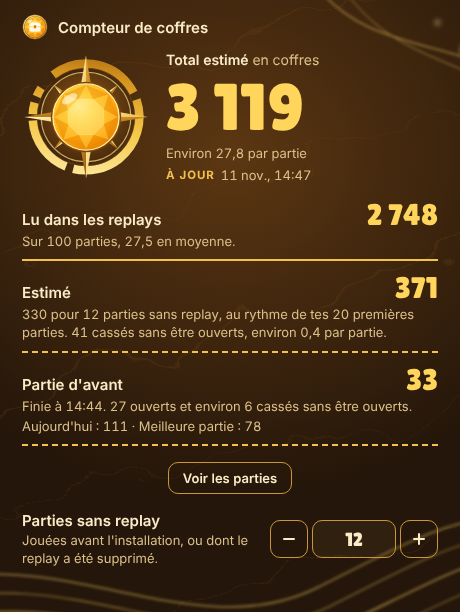
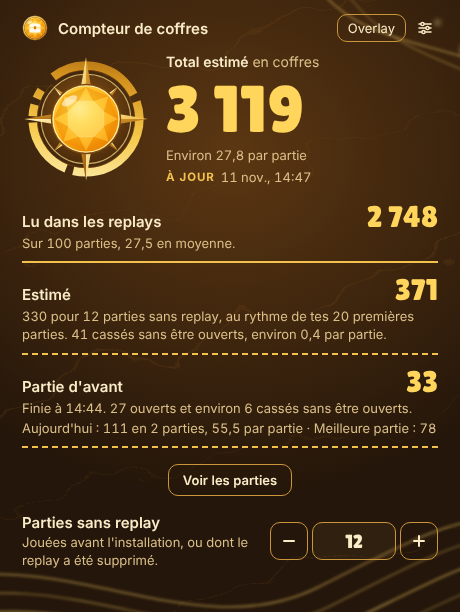
feat(content): show the chest counter 2.4.0 window and settings

diff --git a/src/i18n/fr.ts b/src/i18n/fr.ts
@@ -157,7 +157,7 @@ export const fr = {
         'Lance l’installateur. Il s’installe pour ton compte Windows, sans droits d’administrateur, avec un raccourci dans le menu Démarrer et sur le bureau.',
         'Si Windows t’avertit au lancement, suis les étapes de l’encadré « Si Windows t’avertit ».',
         'Dans Fortnite, active l’enregistrement des replays : réglages, section Replays.',
-        'Laisse Chest Counter ouvert ou réduit pendant que tu joues. Chaque partie est comptée une fois finie : le jeu chiffre le replay d’une partie en cours.',
+        'Laisse Chest Counter ouvert pendant que tu joues : si tu fermes la fenêtre, il reste près de l’horloge. Chaque partie est comptée une fois finie : le jeu chiffre le replay d’une partie en cours.',
       ],
       note: 'Tu as joué avant d’installer l’app ? Indique combien de parties dans « Parties sans replay ». Les nouvelles versions s’installent toutes seules.',
     },

diff --git a/src/i18n/en.ts b/src/i18n/en.ts
@@ -158,7 +158,7 @@ export const en: typeof fr = {
         'Run the installer. It installs for your Windows account, without administrator rights, with a shortcut in the Start menu and on the desktop.',
         'If Windows warns you when it starts, follow the steps in the “If Windows warns you” box.',
         'In Fortnite, turn on replay recording: settings, Replays section.',
-        'Leave Chest Counter open or minimized while you play. Each match is counted once it ends: the game encrypts the replay of a match in progress.',
+        'Leave Chest Counter running while you play: if you close the window, it stays by the clock. Each match is counted once it ends: the game encrypts the replay of a match in progress.',
       ],
       note: 'Played before installing the app? Enter how many matches in “Matches without a replay”. New versions install themselves.',
     },

diff --git a/src/content/software/chest-counter.md b/src/content/software/chest-counter.md
@@ -7,7 +7,7 @@ repo: Palawizard/chest-counter
 color: amber
 category: UtilitiesApplication
 languages: ['fr', 'en']
-shareCard: 2
+shareCard: 3
 icon: ../../assets/software/chest-counter/icon.svg
 screenshots:
   - src: ../../assets/software/chest-counter/window-light.png
@@ -26,26 +26,36 @@ requirements:
 
 ## Ce qui est compté
 
-Chaque coffre que tu ouvres toi-même : normal, rare, enterré, relique et avis de recherche, ainsi que les types de coffres ajoutés par les mises à jour du jeu. Un coffre qui se remplit à nouveau et que tu rouvres compte une deuxième fois ; un coffre que tu revois sans le rouvrir ne compte pas. Les caisses de munitions et les glacières ne comptent pas.
+Chaque coffre que tu ouvres toi-même : normal, rare, enterré, relique et avis de recherche, ainsi que les types de coffres ajoutés par les mises à jour du jeu. Un coffre qui se remplit à nouveau et que tu rouvres compte une deuxième fois ; un coffre que tu revois sans le rouvrir ne compte pas. Les caisses de munitions et les glacières ne comptent pas.
 
 ## Après chaque partie
 
-Sous le grand nombre, tu vois ta moyenne par partie : le total estimé divisé par toutes tes parties. « Partie d’avant » donne les coffres de ta dernière partie, ouverts plus cassés estimés, l’heure à laquelle elle a fini, tes coffres du jour et ta meilleure partie. « Voir les parties » liste chaque partie comptée avec le même total et ses coffres ouverts par type. Une notification Windows te dit aussi combien de coffres chaque partie a ajoutés ; tu peux la couper en bas de la liste.
+Sous le grand nombre, tu vois ta moyenne par partie : le total estimé divisé par toutes tes parties. « Partie d’avant » donne les coffres de ta dernière partie, ouverts plus cassés estimés, l’heure à laquelle elle a fini, tes coffres du jour avec ta moyenne du jour, et ta meilleure partie. « Voir les parties » liste chaque partie comptée avec le même total et ses coffres ouverts par type. Une notification Windows te dit aussi combien de coffres chaque partie a ajoutés ; tu peux la couper dans les réglages.
+
+## Pendant le jeu et en stream
+
+Le bouton en haut à droite de la fenêtre ouvre les réglages :
+
+- **Overlay pendant Fortnite** : le total et la partie d’avant par-dessus le jeu, en plein écran comme en fenêtré. Tes clics passent au travers. Ctrl+Maj+O le cache ou l’affiche, Ctrl+Maj+L te laisse le déplacer puis le fixe. Les boutons « Overlay » et « Déplacer » en haut de la fenêtre font la même chose.
+- **Page pour OBS** : une adresse comme `http://127.0.0.1:28470/`, à ajouter comme source Navigateur dans OBS. La page est transparente et se met à jour toutes les quelques secondes.
+- **S’ouvrir avec Fortnite** : un petit processus démarre avec Windows, attend sans rien faire et ouvre Chest Counter près de l’horloge quand Fortnite se lance.
+
+Fermer la fenêtre laisse Chest Counter tourner près de l’horloge, pour que l’overlay, la page OBS et les notifications continuent. Pour le quitter, fais un clic droit sur son icône près de l’horloge, puis « Quitter ».
 
 ## Les limites
 
-- Fortnite garde environ 100 replays. Une partie dont le replay est supprimé avant que l’app le lise ne peut être qu’estimée : ouvre Chest Counter au moins une fois toutes les 100 parties.
-- Les replays ne disent pas qui a cassé un coffre. Un coffre détruit avec son butin compte pour toi si tu étais le joueur le plus proche, à moins de 10 m. En véhicule, ta position n’est pas suivie : ces coffres comptent pour 0,7. Cette part reste toujours dans l’estimation.
+- Fortnite garde environ 100 replays. Une partie dont le replay est supprimé avant que l’app le lise ne peut être qu’estimée : ouvre Chest Counter au moins une fois toutes les 100 parties.
+- Les replays ne disent pas qui a cassé un coffre. Un coffre détruit avec son butin compte pour toi si tu étais le joueur le plus proche, à moins de 10 m. En véhicule, ta position n’est pas suivie : ces coffres comptent pour 0,7. Cette part reste toujours dans l’estimation.
 - Les coffres du détecteur de reliques ne sont pas comptés.
-- Une partie coupée par un plantage laisse un replay inachevé : elle est affichée à part et ne peut pas être comptée. Une partie quittée depuis le menu est comptée normalement.
+- Une partie coupée par un plantage laisse un replay inachevé : elle est affichée à part et ne peut pas être comptée. Une partie quittée depuis le menu est comptée normalement.
 - Tous les modes de jeu présents dans le dossier des replays sont comptés.
 
 ## Si tu avais déjà une version 2.2 ou plus ancienne
 
-La 2.3 compte plus juste. Avant, un coffre ouvert, puis revu plus tard dans la partie, était souvent compté une deuxième fois : sur 99 parties de test, l’ancien compte était environ 25 % trop haut. Après la mise à jour, « Lu dans les replays » baisse donc, c’est normal. Tes replays encore sur le PC sont relus une fois, et les parties comptées par une ancienne version dont le replay a disparu passent dans « Parties sans replay », où elles sont estimées. La fenêtre affiche une fois les chiffres d’avant et d’après.
+La 2.3 compte plus juste. Avant, un coffre ouvert, puis revu plus tard dans la partie, était souvent compté une deuxième fois : sur 99 parties de test, l’ancien compte était environ 25 % trop haut. Après la mise à jour, « Lu dans les replays » baisse donc, c’est normal. Tes replays encore sur le PC sont relus une fois, et les parties comptées par une ancienne version dont le replay a disparu passent dans « Parties sans replay », où elles sont estimées. La fenêtre affiche une fois les chiffres d’avant et d’après.
 
 ## Tes données
 
-Chest Counter lit seulement ton dossier de replays, sans jamais le modifier. Pas de compte, pas de connexion à Epic ni aux sites de stats : tes replays restent sur ton PC. L’app ne se connecte à internet que pour chercher ses mises à jour sur GitHub.
+Chest Counter lit seulement ton dossier de replays, sans jamais le modifier. Pas de compte, pas de connexion à Epic ni aux sites de stats : tes replays restent sur ton PC. L’app ne se connecte à internet que pour chercher ses mises à jour sur GitHub. La page pour OBS, si tu l’actives, n’est accessible que depuis ton PC. « S’ouvrir avec Fortnite » ajoute une entrée de démarrage pour ton compte Windows seulement, sans droits d’administrateur, et la désinstallation la retire.
 
 Chest Counter n’est ni affilié à Epic Games ni approuvé par Epic Games. Fortnite est une marque d’Epic Games, Inc.

diff --git a/src/content/software-en/chest-counter.md b/src/content/software-en/chest-counter.md
@@ -15,7 +15,17 @@ Every chest you open yourself: regular, rare, buried, relic and bounty chests, a
 
 ## After each match
 
-Under the big number, you see your average per match: the estimated total divided by all your matches. “Last match” shows the chests of your latest match, opened plus broken estimated, when it ended, today’s chests and your best match. “See all matches” lists every counted match with the same total and its opened chests by type. A Windows notification also tells you how many chests each match added; you can turn it off at the bottom of the list.
+Under the big number, you see your average per match: the estimated total divided by all your matches. “Last match” shows the chests of your latest match, opened plus broken estimated, when it ended, today’s chests with your average for the day, and your best match. “See all matches” lists every counted match with the same total and its opened chests by type. A Windows notification also tells you how many chests each match added; you can turn it off in the settings.
+
+## While you play and stream
+
+The button at the top right of the window opens the settings:
+
+- **Overlay while Fortnite runs**: the total and your last match over the game, in fullscreen or windowed mode. Your clicks go through it. Ctrl+Shift+O hides or shows it, Ctrl+Shift+L lets you move it, then locks it again. The “Overlay” and “Move” buttons at the top of the window do the same.
+- **Page for OBS**: an address such as `http://127.0.0.1:28470/`, to add as a Browser source in OBS. The page is transparent and updates every few seconds.
+- **Open with Fortnite**: a small process starts with Windows, waits quietly and opens Chest Counter by the clock when Fortnite starts.
+
+Closing the window keeps Chest Counter running by the clock, so the overlay, the OBS page and the notifications keep working. To quit, right-click its icon by the clock, then choose “Quit”.
 
 ## The limits
 
@@ -31,6 +41,6 @@ Version 2.3 counts more accurately. Before, a chest you opened, then saw again l
 
 ## Your data
 
-Chest Counter only reads your replays folder and never changes it. No account, no connection to Epic or to stats sites: your replays stay on your PC. The app only goes online to look for its updates on GitHub.
+Chest Counter only reads your replays folder and never changes it. No account, no connection to Epic or to stats sites: your replays stay on your PC. The app only goes online to look for its updates on GitHub. The OBS page, when you turn it on, can only be reached from your own PC. “Open with Fortnite” adds a startup entry for your Windows account only, without administrator rights, and uninstalling removes it.
 
 Chest Counter is not affiliated with or endorsed by Epic Games. Fortnite is a trademark of Epic Games, Inc.
